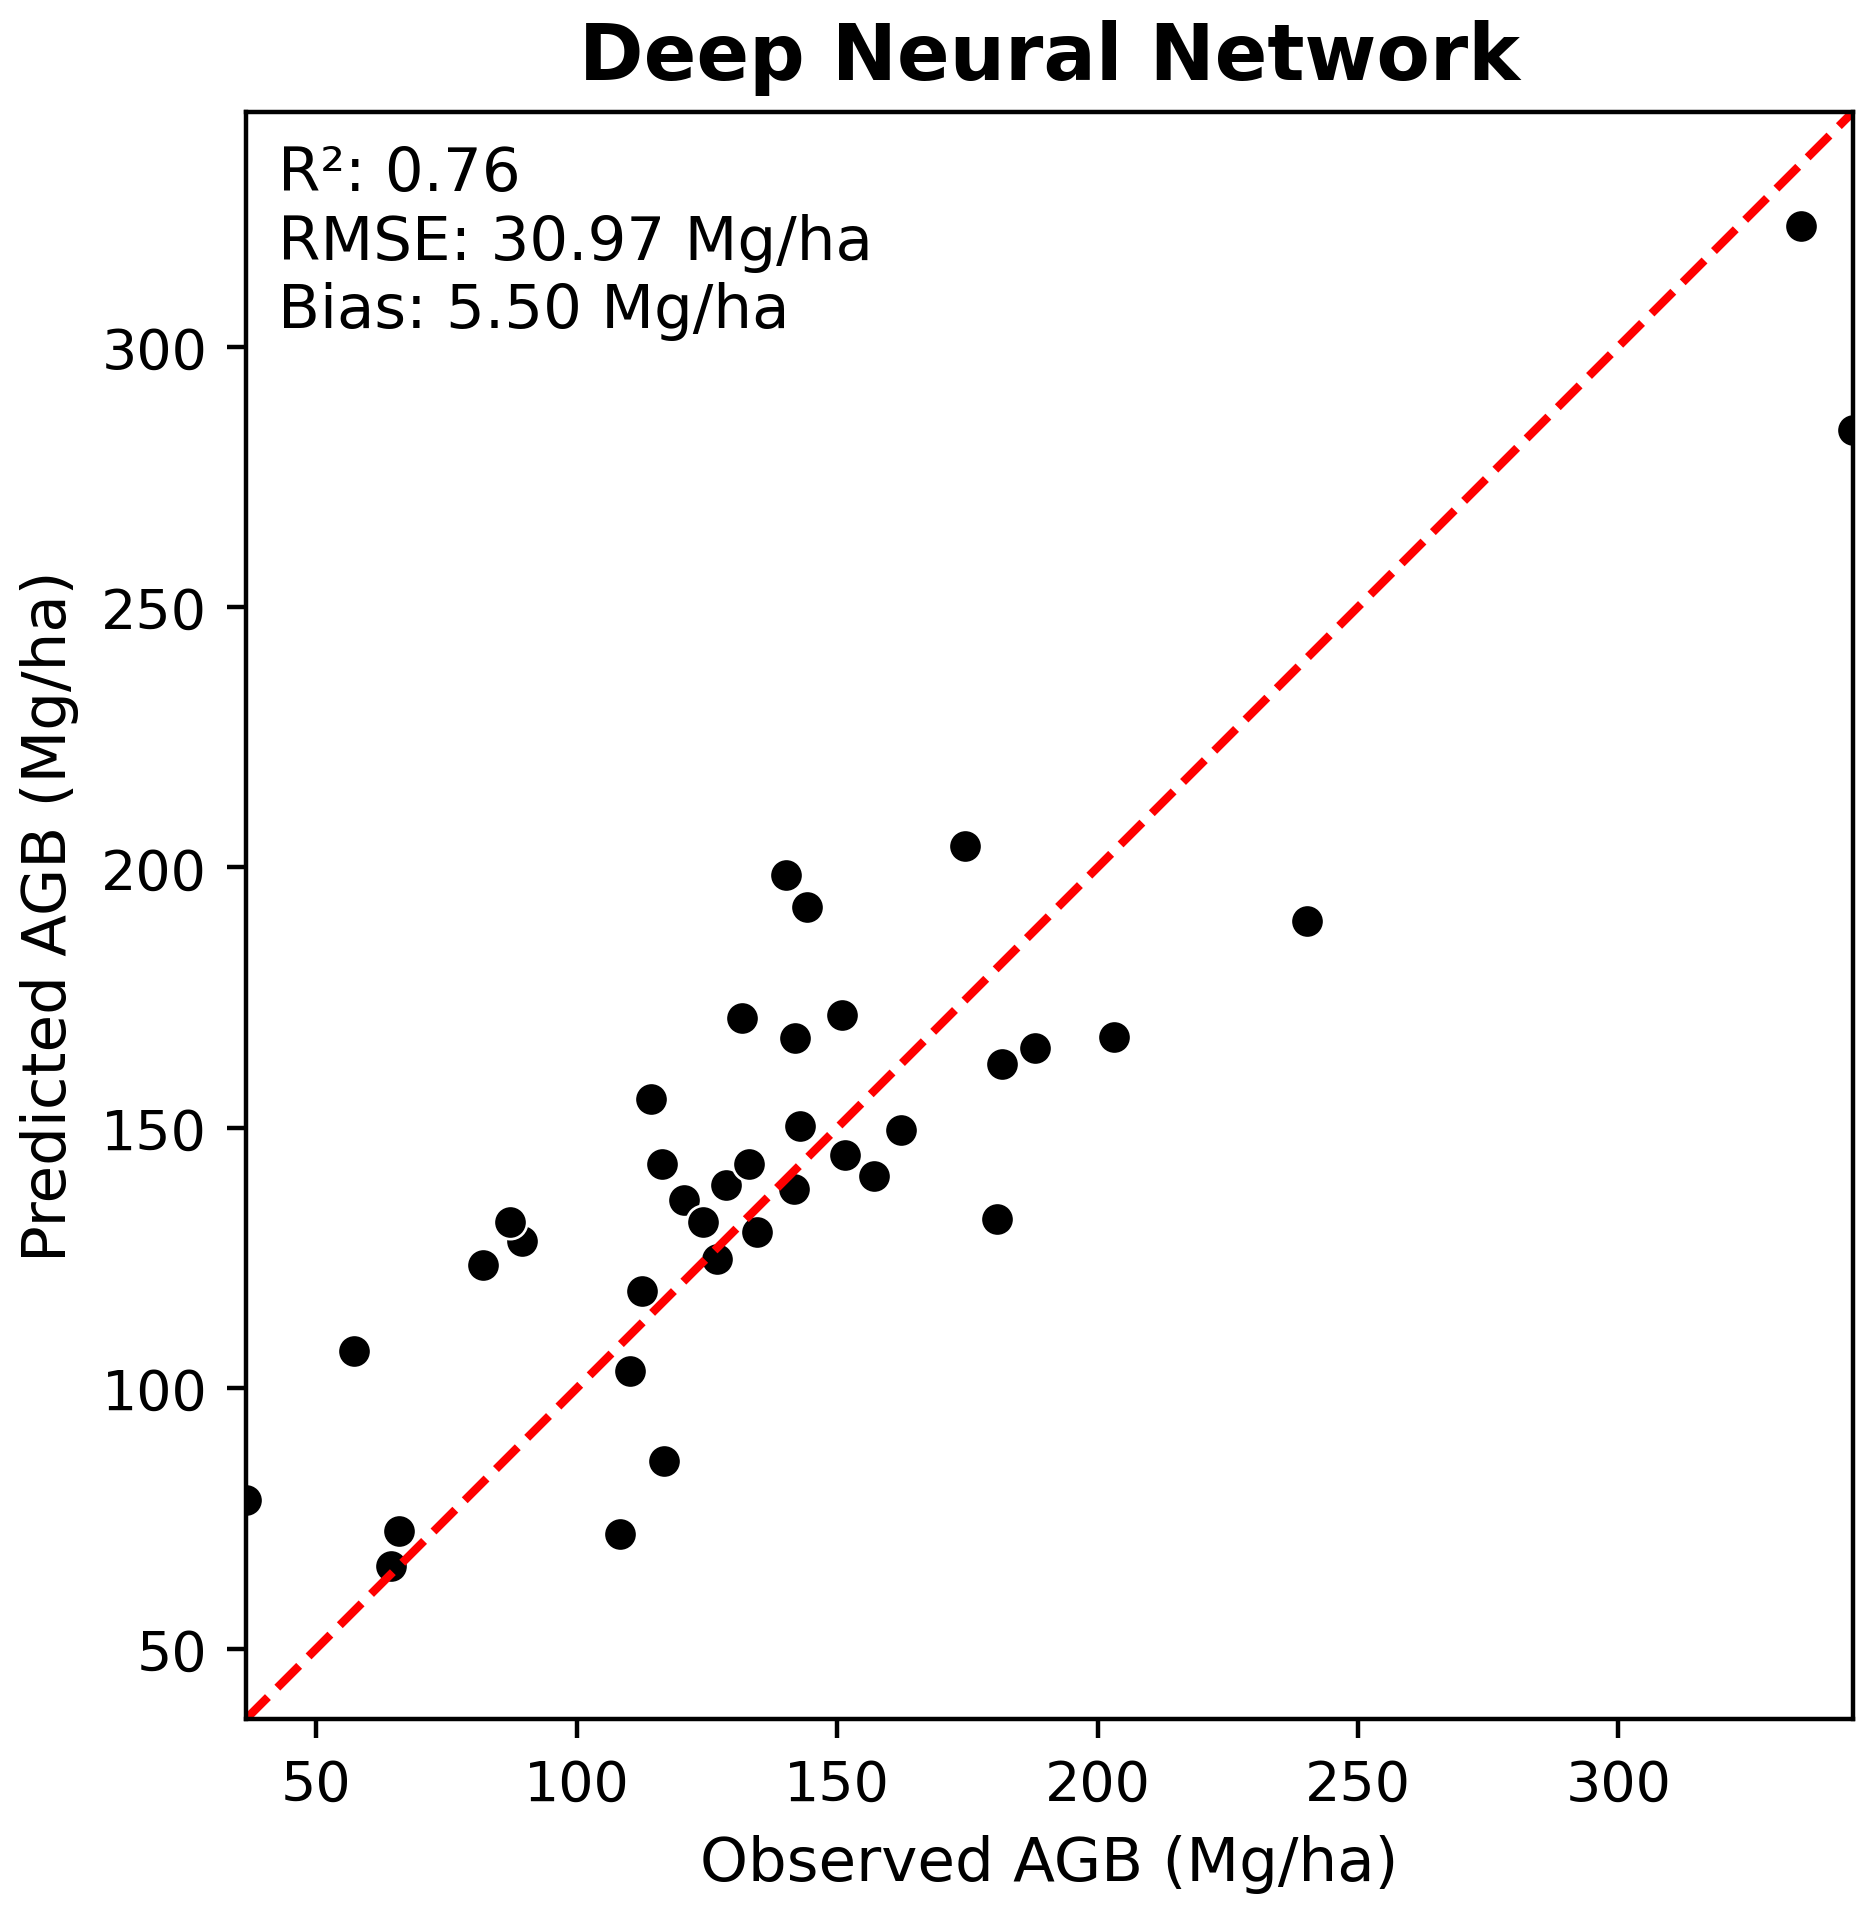
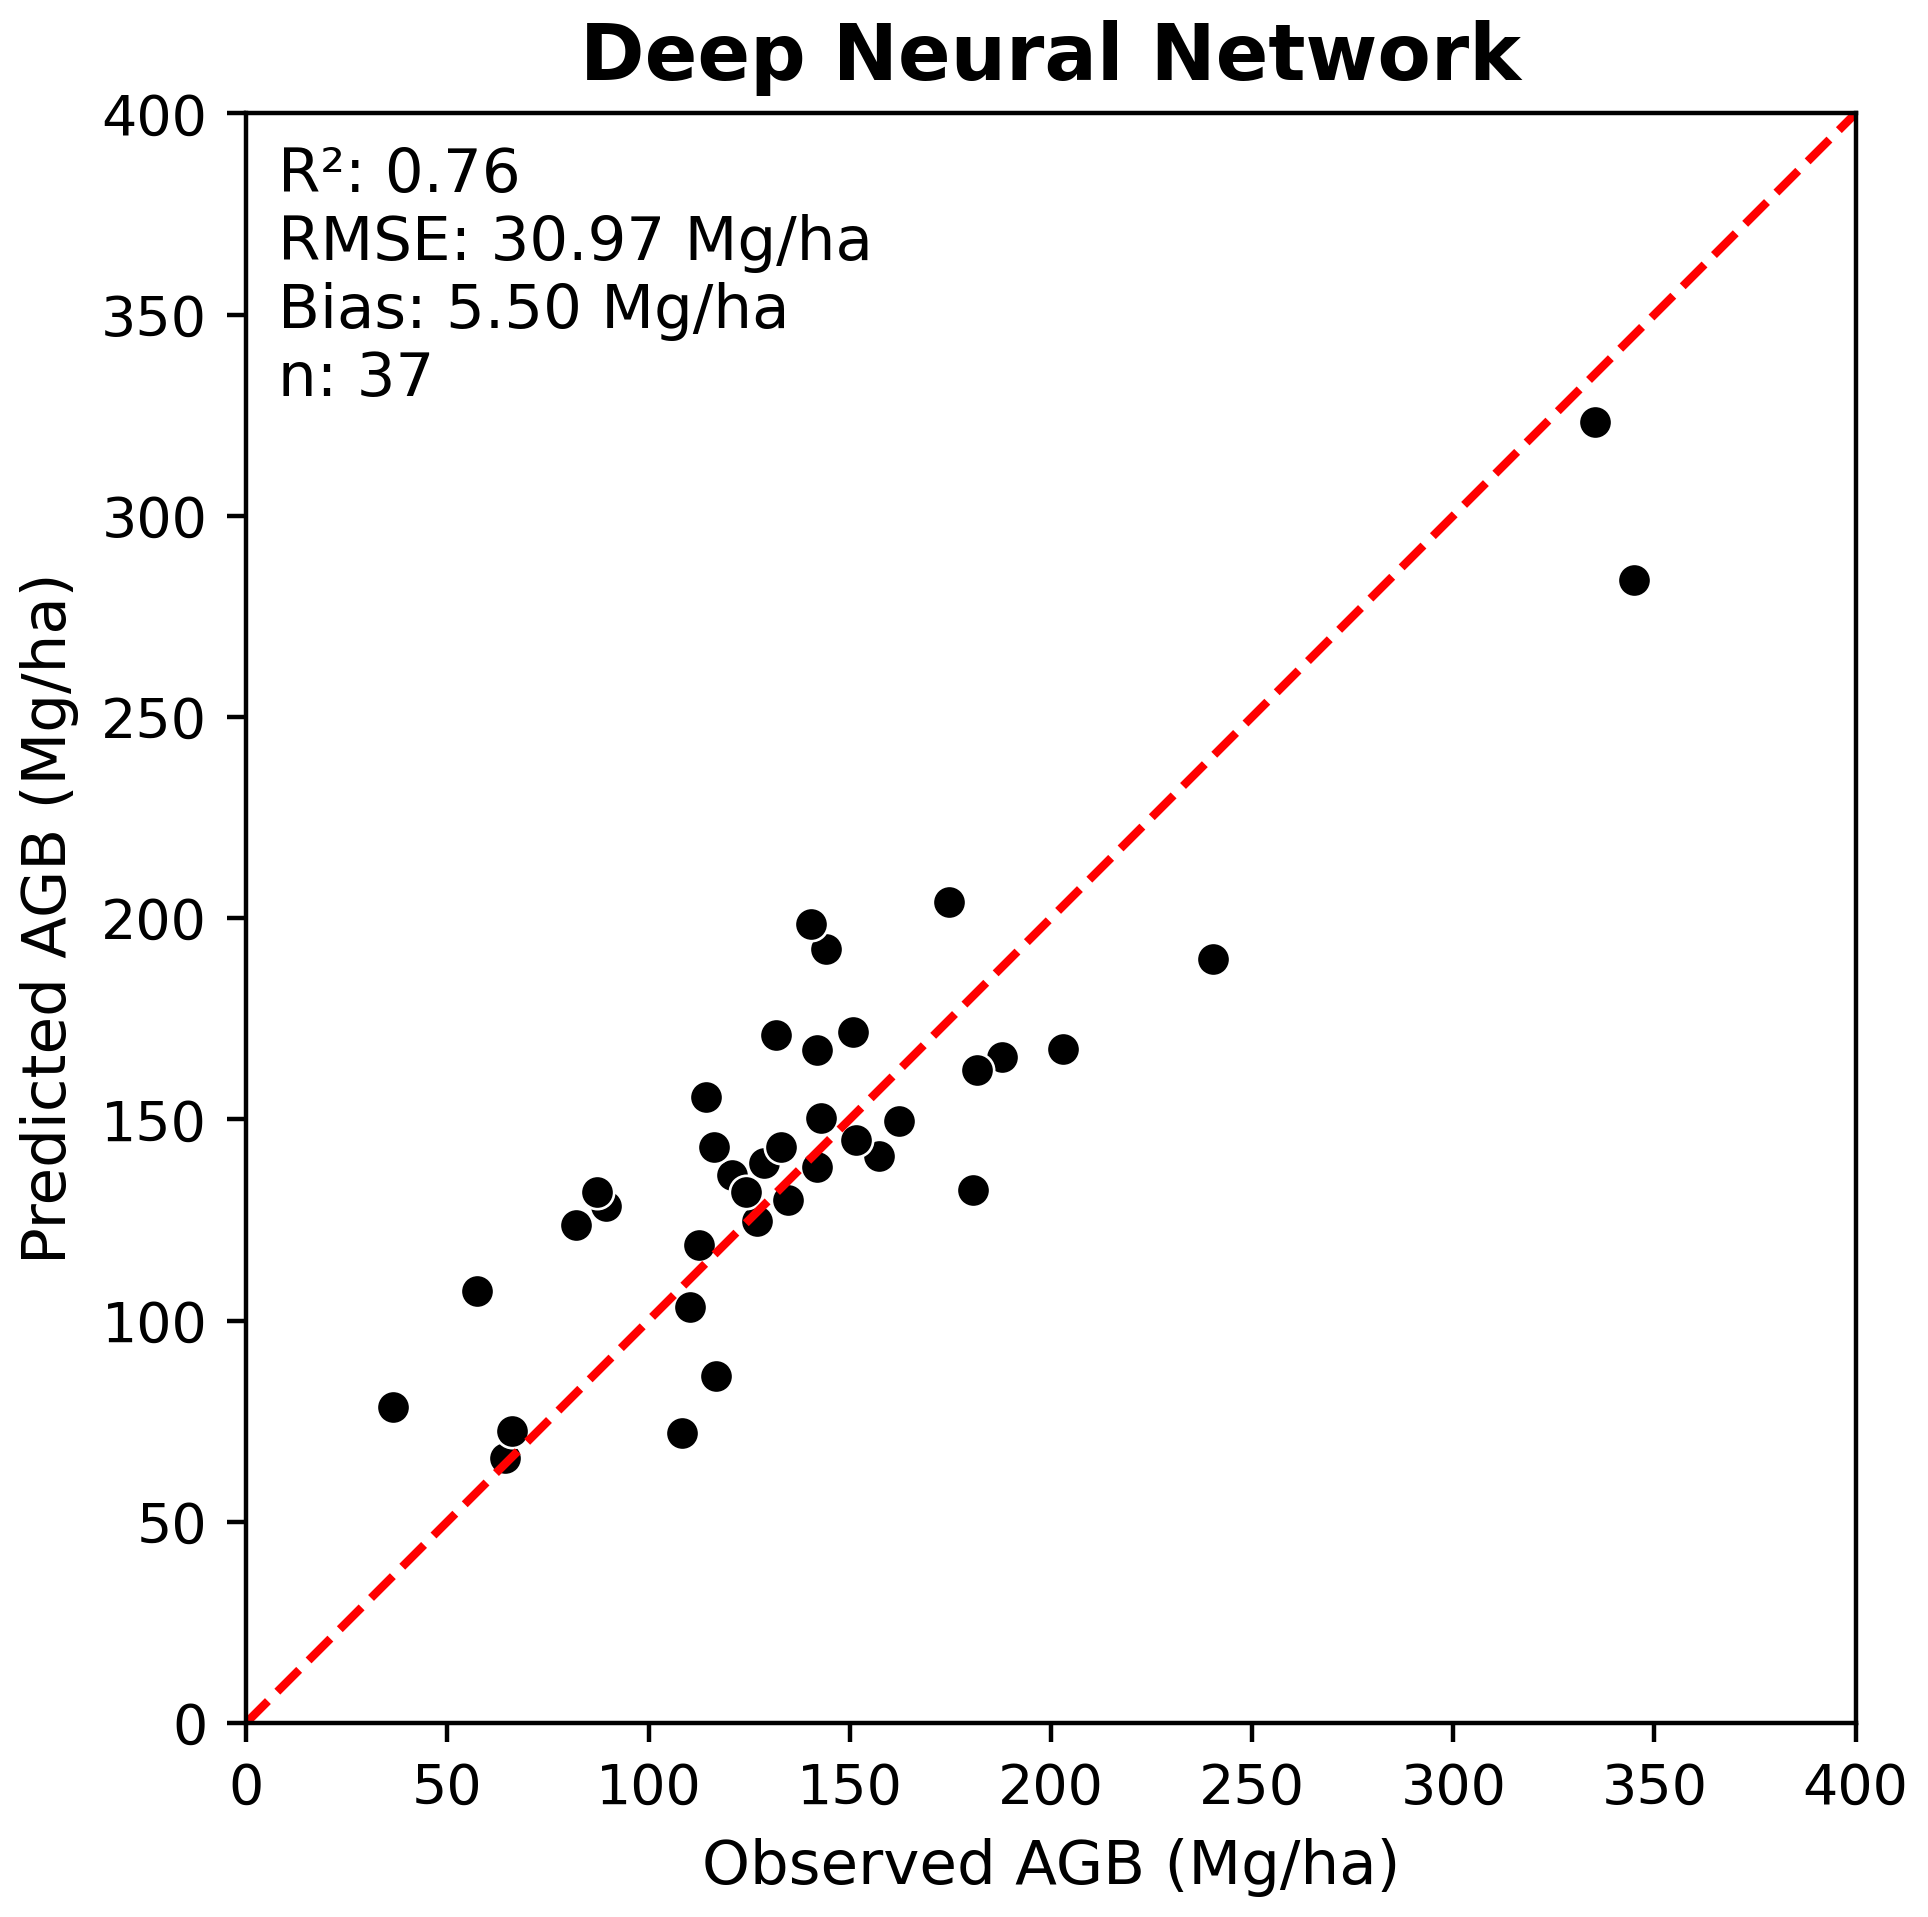
update RF to use both train and val data to fit model, also modify regression plot code to manually set x and y lims

diff --git a/src/regression_utils.py b/src/regression_utils.py
@@ -52,31 +52,30 @@ def read_reg_obs_pred(labels_fpath, obs_pred_fpath):
     
     return df
 
-def plot_regression(obs, pred, title='', fig_out_fpath=None, hide=False):
+def plot_regression(obs, pred, ax_lims, title='', fig_out_fpath=None, hide=False):
 
     # Calculate regression metrics
     r2 = r2_score(obs, pred)
     mse = mean_squared_error(obs, pred)
     rmse = np.sqrt(mse)
     bias = np.mean(pred - obs)
+    n_samples = len(obs)
 
     # Set square figure
     fig, ax = plt.subplots(figsize=(5, 5))  # Make figure square
     ax.set(aspect='equal')
 
     # Set axis limits to be equal and tight
-    min_val = min(obs.min(), pred.min())
-    max_val = max(obs.max(), pred.max())
-    ax.set_xlim(min_val, max_val)
-    ax.set_ylim(min_val, max_val)
-
+    ax.set_xlim(ax_lims[0], ax_lims[1])
+    ax.set_ylim(ax_lims[0], ax_lims[1])
+ 
     sns.scatterplot(ax=ax, x=obs, y=pred, color='black')
-    ax.plot([min_val, max_val], [min_val, max_val], color='red', linestyle='--')
+    ax.plot([ax_lims[0], ax_lims[1]], [ax_lims[0], ax_lims[1]], color='red', linestyle='--')
     ax.set_xlabel('Observed AGB (Mg/ha)', fontsize=11)
     ax.set_ylabel('Predicted AGB (Mg/ha)', fontsize=11)
     ax.set_title(title, fontsize=14, fontweight='bold')
     ax.text(.02, .98, 
-            s = f'R²: {r2:.2f}\nRMSE: {rmse:.2f} Mg/ha\nBias: {bias:.2f} Mg/ha',
+            s = f'R²: {r2:.2f}\nRMSE: {rmse:.2f} Mg/ha\nBias: {bias:.2f} Mg/ha\nn: {n_samples}',
             ha='left', va='top', 
             transform=ax.transAxes,
             fontsize=11)